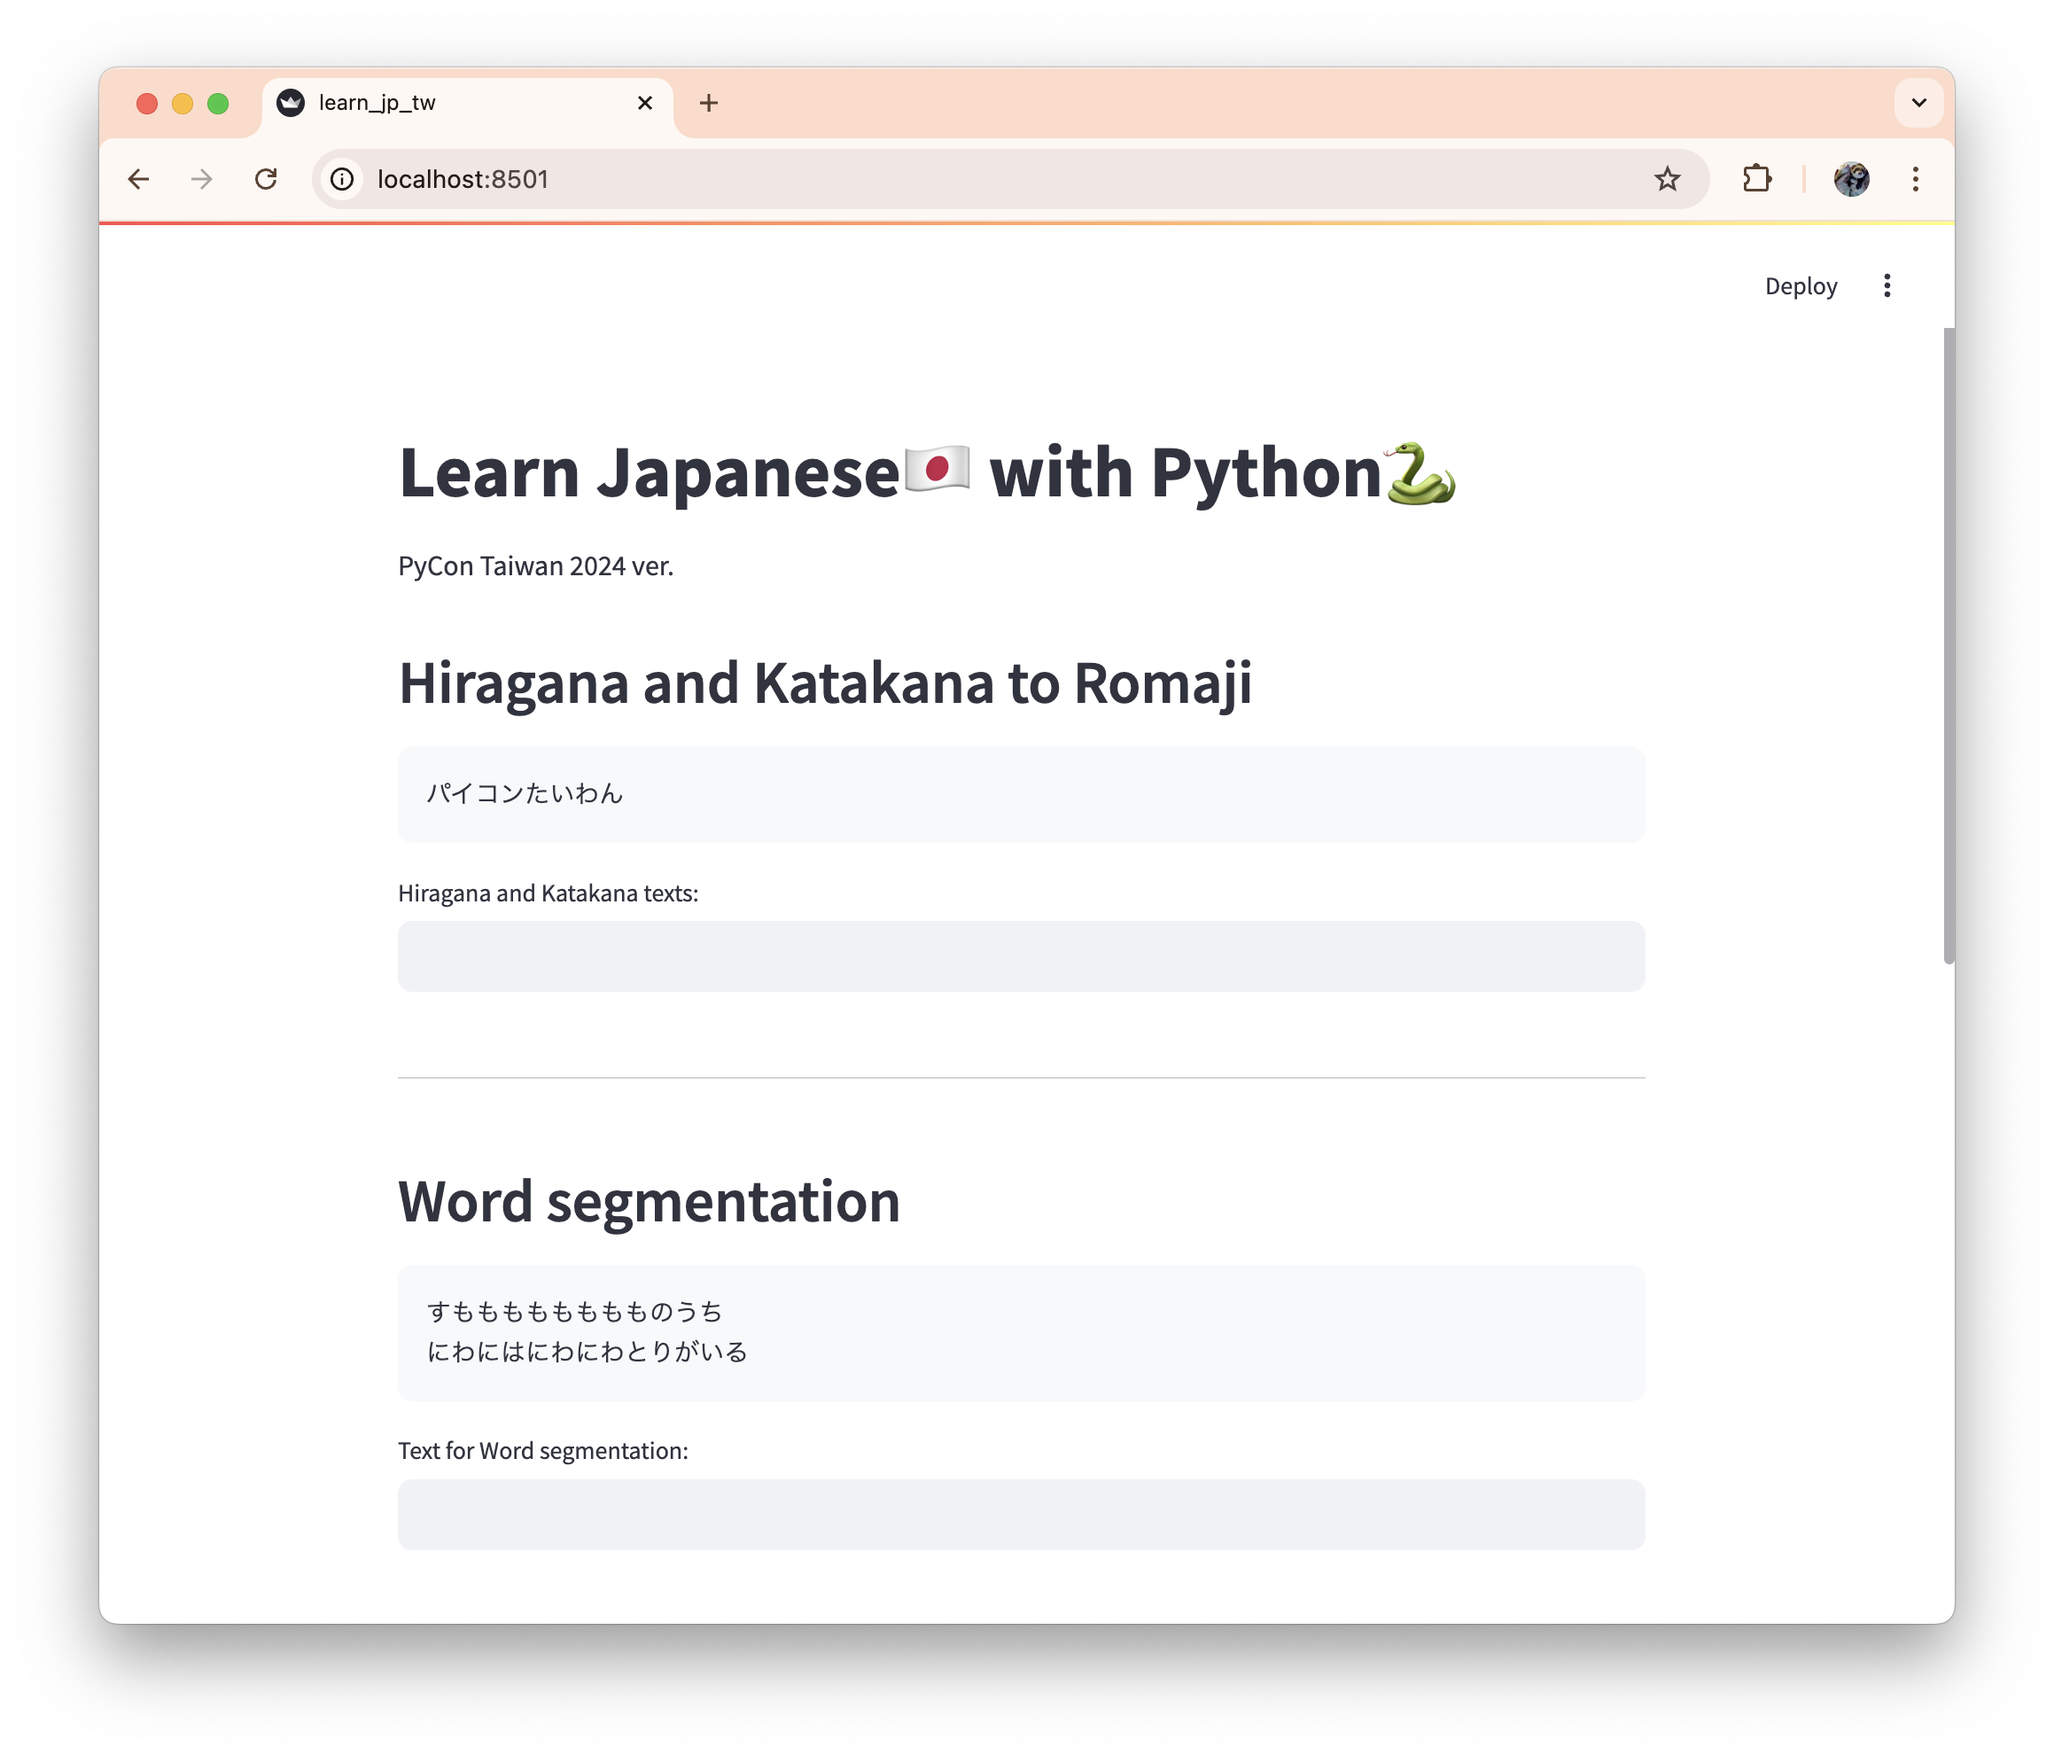
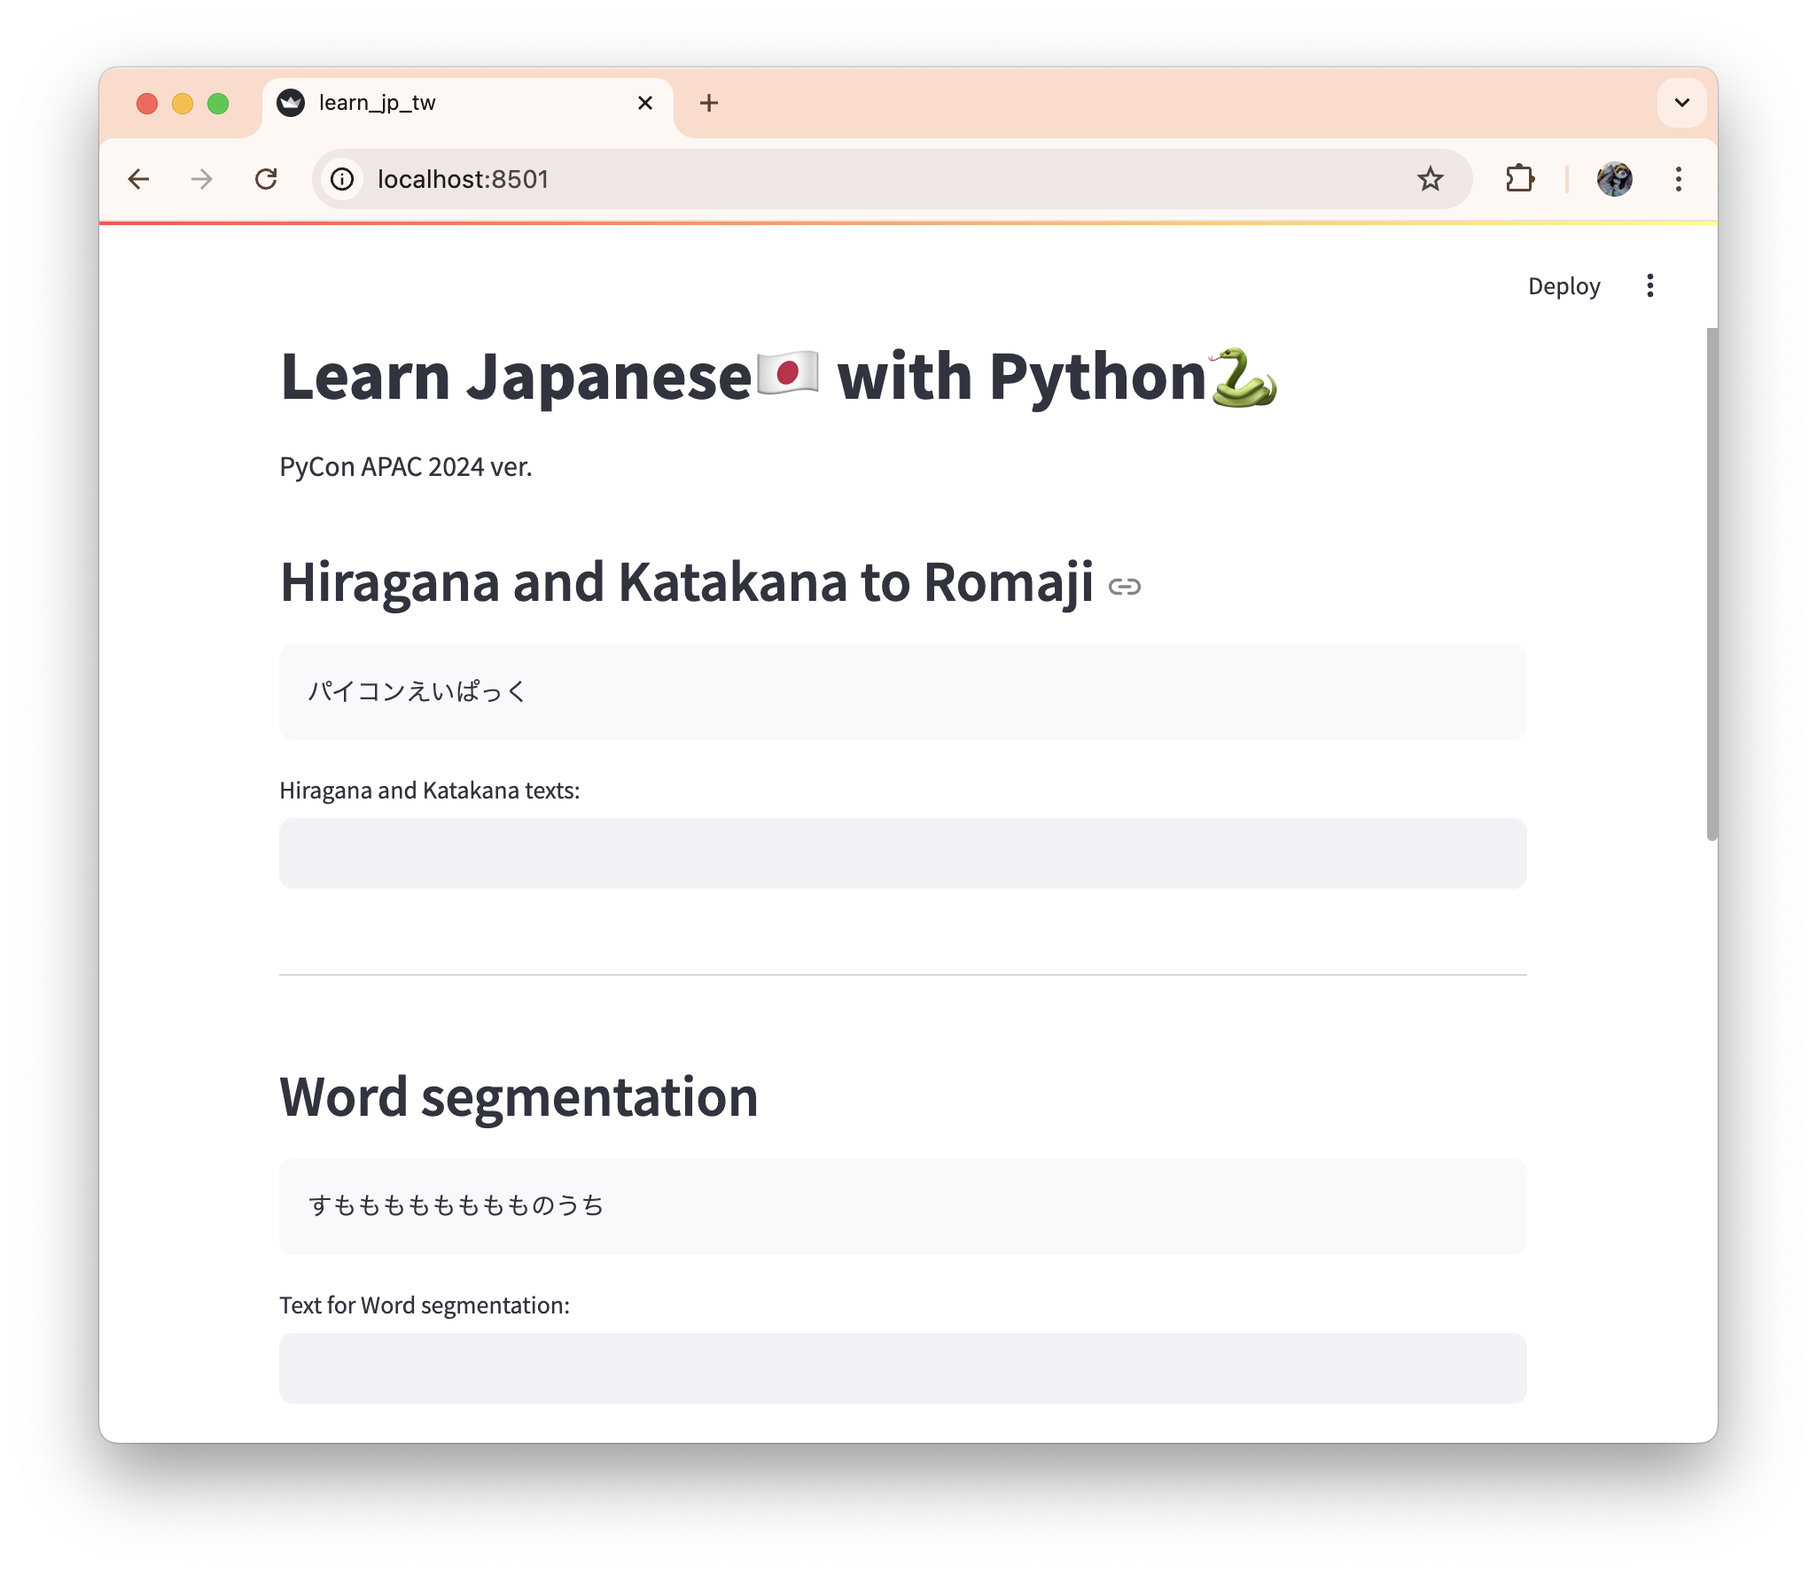
TAK-33 update slides

diff --git a/slides/20241027pyconapac/index.md b/slides/20241027pyconapac/index.md
@@ -9,6 +9,10 @@
 
 Takanori Suzuki
 
+```{image} images/pyconapac2024.png
+:width: 100
+```
+
 PyCon APAC 2024 / 2024 Oct 27
 
 ## Agenda ✅
@@ -42,7 +46,7 @@ PyCon APAC 2024 / 2024 Oct 27
 ### Background and Motivation(cont.)
 
 * [FSI language difficulty](https://www.fsi-language-courses.org/blog/fsi-language-difficulty/)
-* Japanese is "**super-hard languages**" for English speakers to learn
+  * Japanese is "**super-hard languages**" for English speakers to learn
   * Mandarin, Cantonese, Korean and Arabic
   
 ```{revealjs-notes}
@@ -67,7 +71,7 @@ PyCon APAC 2024 / 2024 Oct 27
 
 `#pycontw` / `@takanory`
 
-### [`slides.takanory.net`](https://slides.takanory.net) 💻
+### {fas}`globe` [`slides.takanory.net`](https://slides.takanory.net) 💻
 
 ![slides.takanory.net](images/slides-takanory-net.png)
 
@@ -96,7 +100,7 @@ And...
 
 ### PyCon JP Association
 
-[`www.pycon.jp`](https://www.pycon.jp/committee/english.html)
+{fas}`globe` [`www.pycon.jp`](https://www.pycon.jp/committee/english.html)
 
 **Nonprofit** organization for **Python users** in Japan, to **promote Python** and supports its development. Further it is **our goal** to hold an annual **PyCon JP**.
 
@@ -104,32 +108,39 @@ And...
 
 ### PyCon JP **2025**
 
-* [`2025.pycon.jp`](https://2025.pycon.jp/)
+* {fas}`globe` [`2025.pycon.jp`](https://2025.pycon.jp/)
 * Date: 2025 **Sep 26**(Fri)-**27**(Sat)
 * Place: **Hiroshima**, Japan
 * There are **English talks**
 
 ```{image} images/pyconjp2025-in-hiroshima.jpg
 :alt: PyCon JP 2025 in Hiroshima
-:width: 70%
+:width: 60%
 ```
 
 ```{revealjs-notes}
-I'm also Co-chair of PyCon JP 2024.
 Do you know PyCon JP?
-PyCon JP will be held next week.
-Tickets are now on sale. Hurry up!!
+PyCon JP 2025 will be held in Hiroshima at the end of September.
+For the first time, PyCon JP will be held outside of Tokyo!
+Do you know Hiroshima?...
 ```
 
 ### Hiroshima? ⛩
 
-* 広島のなんか説明
+* Fukushima - **Hiroshima** - Kyoto - Tokyo - Hokkaido
 * [Direct flights to Hiroshima - HIJ, Japan](https://www.directflights.com/to/HIJ)
   * Seoul, Taipei, Shanghai, Hong Kong, Dalian, Hanoi
 
 ```{image} https://maps.directflights.com/directflights/800/HIJ.jpg
 :alt: Direct flights to Hiroshima
 :width: 40%
+```
+
+```{revealjs-notes}
+Do you know Hiroshima?...
+Hiroshima location is west of Tokyo and Kyoto.
+Hiroshima has several direct flights from overseas, but sorry, none from Indonesia.
+But I am here in Yogyakarta. You can go to Hiroshima too.
 ```
 
 ## Questions 🙋♂
@@ -146,18 +157,18 @@ There is a very good opportunity for you...
 
 ### PyCon JP **2025**
 
-* [`2025.pycon.jp`](https://2025.pycon.jp/)
+* {fas}`globe` [`2025.pycon.jp`](https://2025.pycon.jp/)
 * Date: 2025 **Sep 26**(Fri)-**27**(Sat)
 * Place: **Hiroshima**, Japan
 * There are **English talks**
 
 ```{image} images/pyconjp2025-in-hiroshima.jpg
 :alt: PyCon JP 2025 in Hiroshima
-:width: 70%
+:width: 60%
 ```
 
 ```{revealjs-notes}
-PyCon JP 2025 will be held in Sep.
+PyCon JP 2025 will be held in Hiroshima in September.
 See you again at PyCon JP.
 ```
 
@@ -249,12 +260,12 @@ I will explain the ruby tag before I talk about Python
 * `<rt>` specifies the **ruby text** component
 
 <ruby>PyCon<rt>Python Conference</rt></ruby>
-<ruby>TW<rt>Taiwan</rt></ruby>
+<ruby>APAC<rt>Asia Pacific</rt></ruby>
 2024
 
 ```html
 <ruby>PyCon<rt>Python Conference</rt></ruby>
-<ruby>TW<rt>Taiwan</rt></ruby>
+<ruby>APAC<rt>Asia Pacific</rt></ruby>
 2024
 ```
 
@@ -265,12 +276,12 @@ I will explain the ruby tag before I talk about Python
 * **Alphabet** annotation: Pronounciation
 
 <ruby>パイコン<rt>pa i ko n</rt></ruby>
-<ruby>たいわん<rt>ta i wa n</rt></ruby>
-(PyCon Taiwan)
+<ruby>えいぱっく<rt>e i pa kku</rt></ruby>
+(PyCon APAc)
 
 ```html
 <ruby>パイコン<rt>pa i ko n</rt></ruby>
-<ruby>たいわん<rt>ta i wa n</rt></ruby>
+<ruby>えいぱっく<rt>e i pa kku</rt></ruby>
 ```
 
 ```{revealjs-break}
@@ -279,13 +290,13 @@ I will explain the ruby tag before I talk about Python
 * **Hiragana** annotation: Readings
 * <ruby>ふりがな<rt>fu ri ga na</rt></ruby>
 
-<ruby>パイコン<rt>ぱいこん</rt></ruby>
-<ruby>台湾<rt>たいわん</rt></ruby>
-(PyCon Taiwan)
+<ruby>インドネシア<rt>いんどねしあ</rt></ruby>
+<ruby>共和国<rt>きょうわこく</rt></ruby>
+(Republic of Indonesia)
 
 ```html
-<ruby>パイコン<rt>ぱいこん</rt></ruby>
-<ruby>台湾<rt>たいわん</rt></ruby>
+<ruby>インドネシア<rt>いんどねしあ</rt></ruby>
+<ruby>共和国<rt>きょうわこく</rt></ruby>
 ```
 
 ### Understand **`<ruby>`** Tag 💡
@@ -306,7 +317,7 @@ hebi / へび / ヘビ
 ```
 
 * Basically use Hiragana
-  * <ruby>たいわん<rt>ta i wa n</rt></ruby>
+  * <ruby>いんどねしあ<rt>i n do ne shi a</rt></ruby> (Indonesia)
 * Katakana is used for foreign words
   * <ruby><ruby>パイコン<rt>pa i ko n</rt></ruby> (PyCon)
 
@@ -331,8 +342,8 @@ $ . env/bin/activate
 
 ```pycon
 >>> import jaconv
->>> jaconv.kana2alphabet("たいわん")  # Hiragana -> alphabet
-'taiwan'
+>>> jaconv.kana2alphabet("いんどねしあ")  # Hiragana -> alphabet
+'indoneshia'
 >>> jaconv.kata2alphabet("パイコン")  # Katakana -> alphabet
 'paikon'
 ```
@@ -349,11 +360,11 @@ kana2roman.py
 ```
 
 ```bash
-(env) $ python kana2roman.py パイコンたいわん
-<ruby>パイコンたいわん<rt>paikontaiwan</rt></ruby>
+(env) $ python kana2roman.py パイコンえいぱっく
+<ruby>パイコンえいぱっく<rt>paikoneipakku</rt></ruby>
 ```
 
-<ruby>パイコンたいわん<rt>paikontaiwan</rt></ruby>
+<ruby>パイコンえいぱっく<rt>paikoneipakku</rt></ruby>
 
 ### Can read **Hiragana** and **Katakana** 🎉
 
@@ -482,7 +493,7 @@ It's difficult, but not only this.
 
 ### 😱 😱
 
-```{revealjs-notes)
+```{revealjs-notes}
 Terrible...
 And there is more...
 ```
@@ -661,11 +672,11 @@ text_to_speech.py
 
 ## **Sample** App
 
-* {fab}`github` [learn-jp-with-python/learn_jp_tw.py](https://github.com/takanory/learn-jp-with-python/blob/main/learn_jp_tw.py)
+* {fab}`github` {fab}`streamlit` [learn-jp-with-python/learn_jp_apac.py](https://github.com/takanory/learn-jp-with-python/blob/main/learn_jp_apac.py)
 
 ```{image} images/demo_app.png
 :alt: Demo App
-:width: 70%
+:width: 60%
 ```
 
 ## **Summary**
